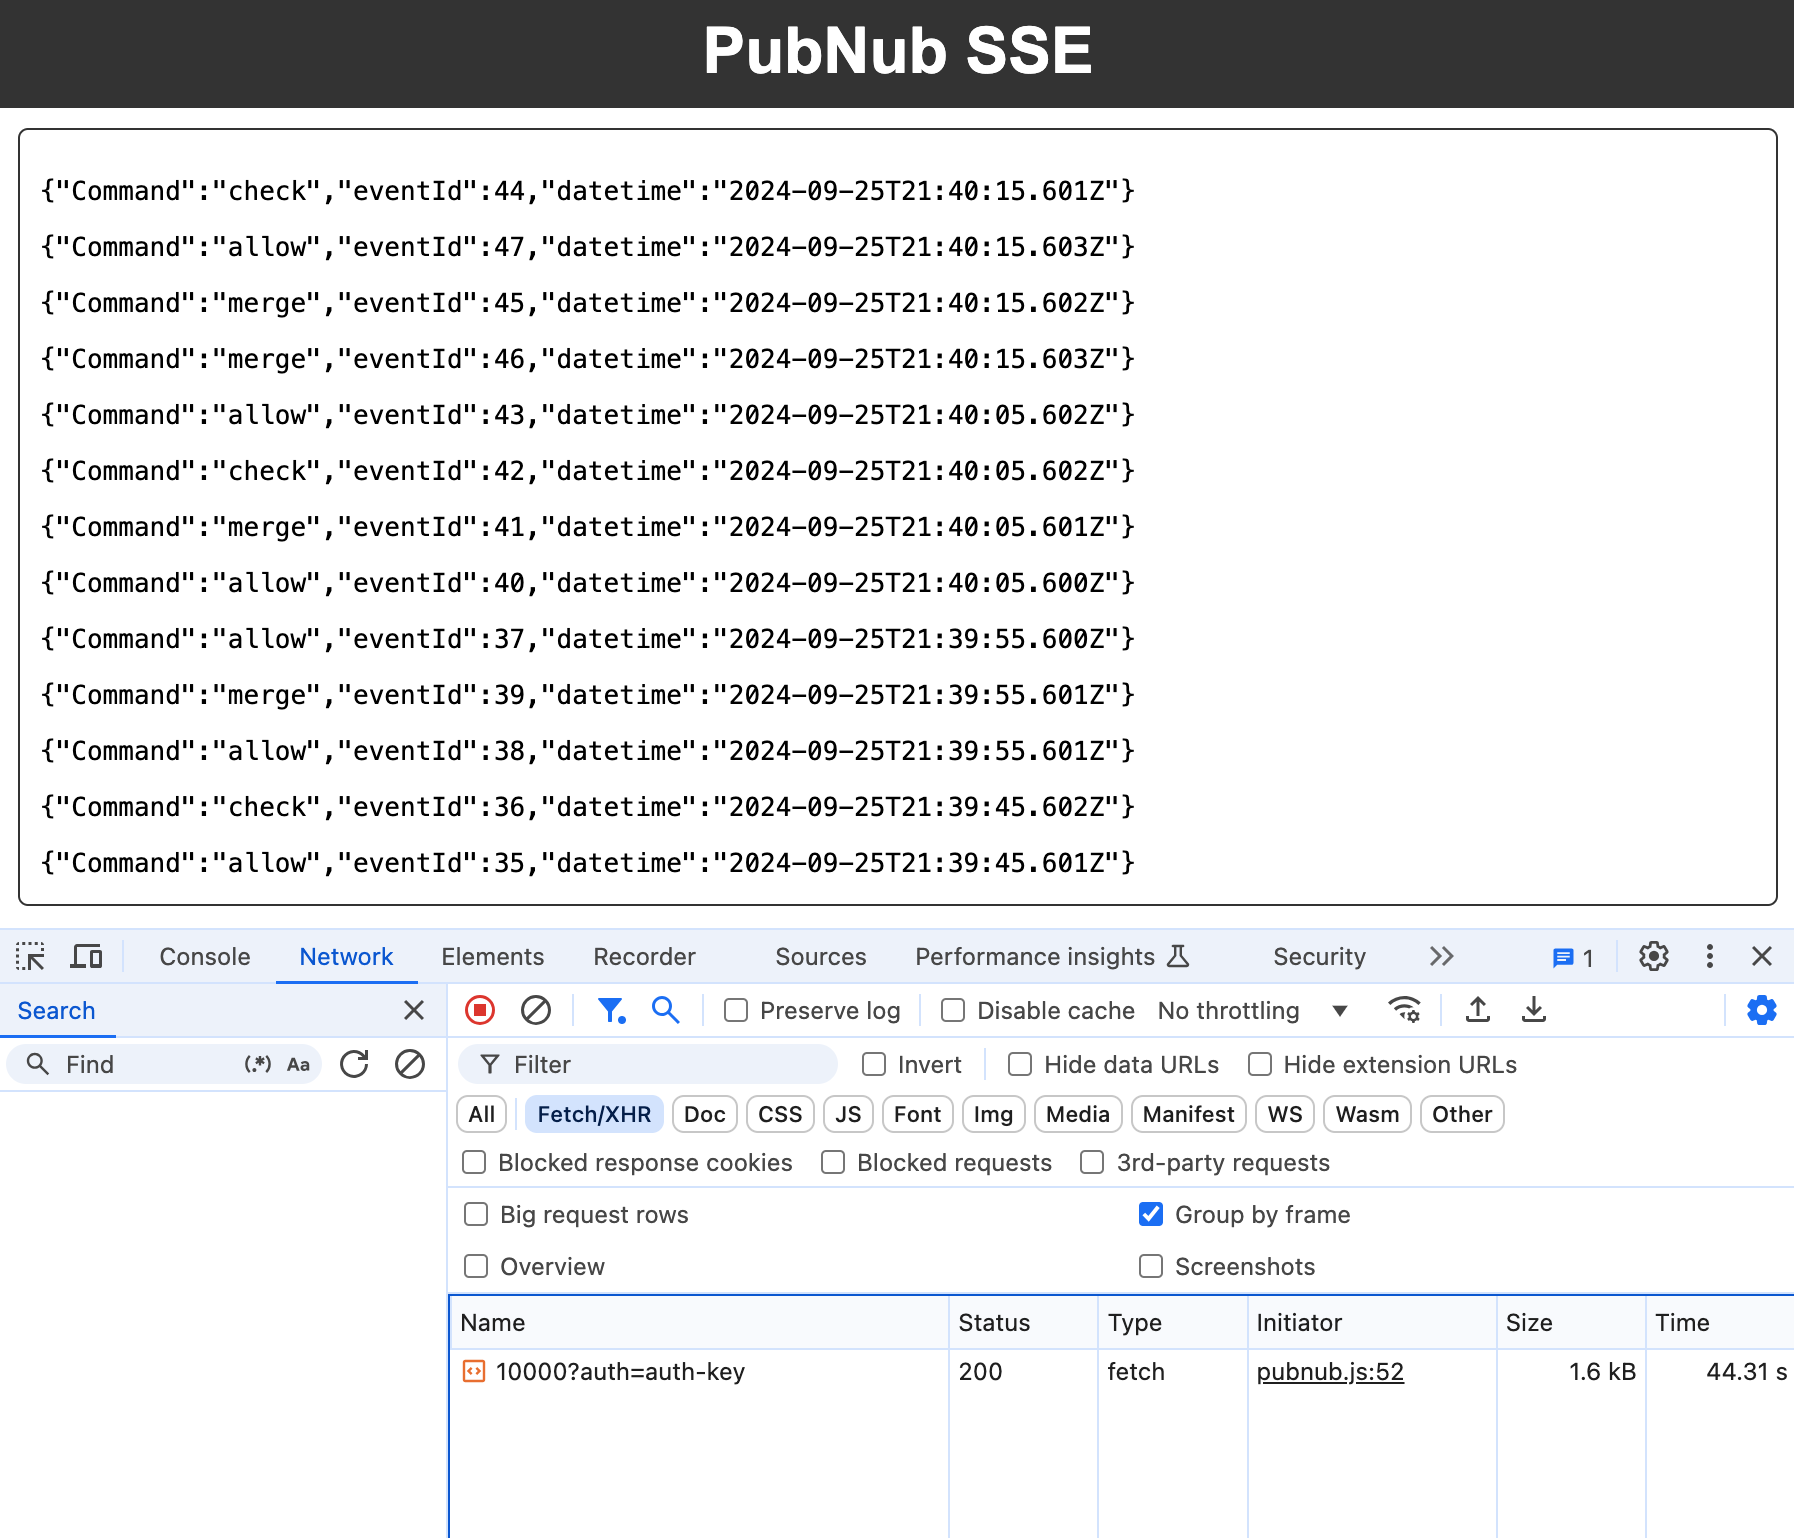
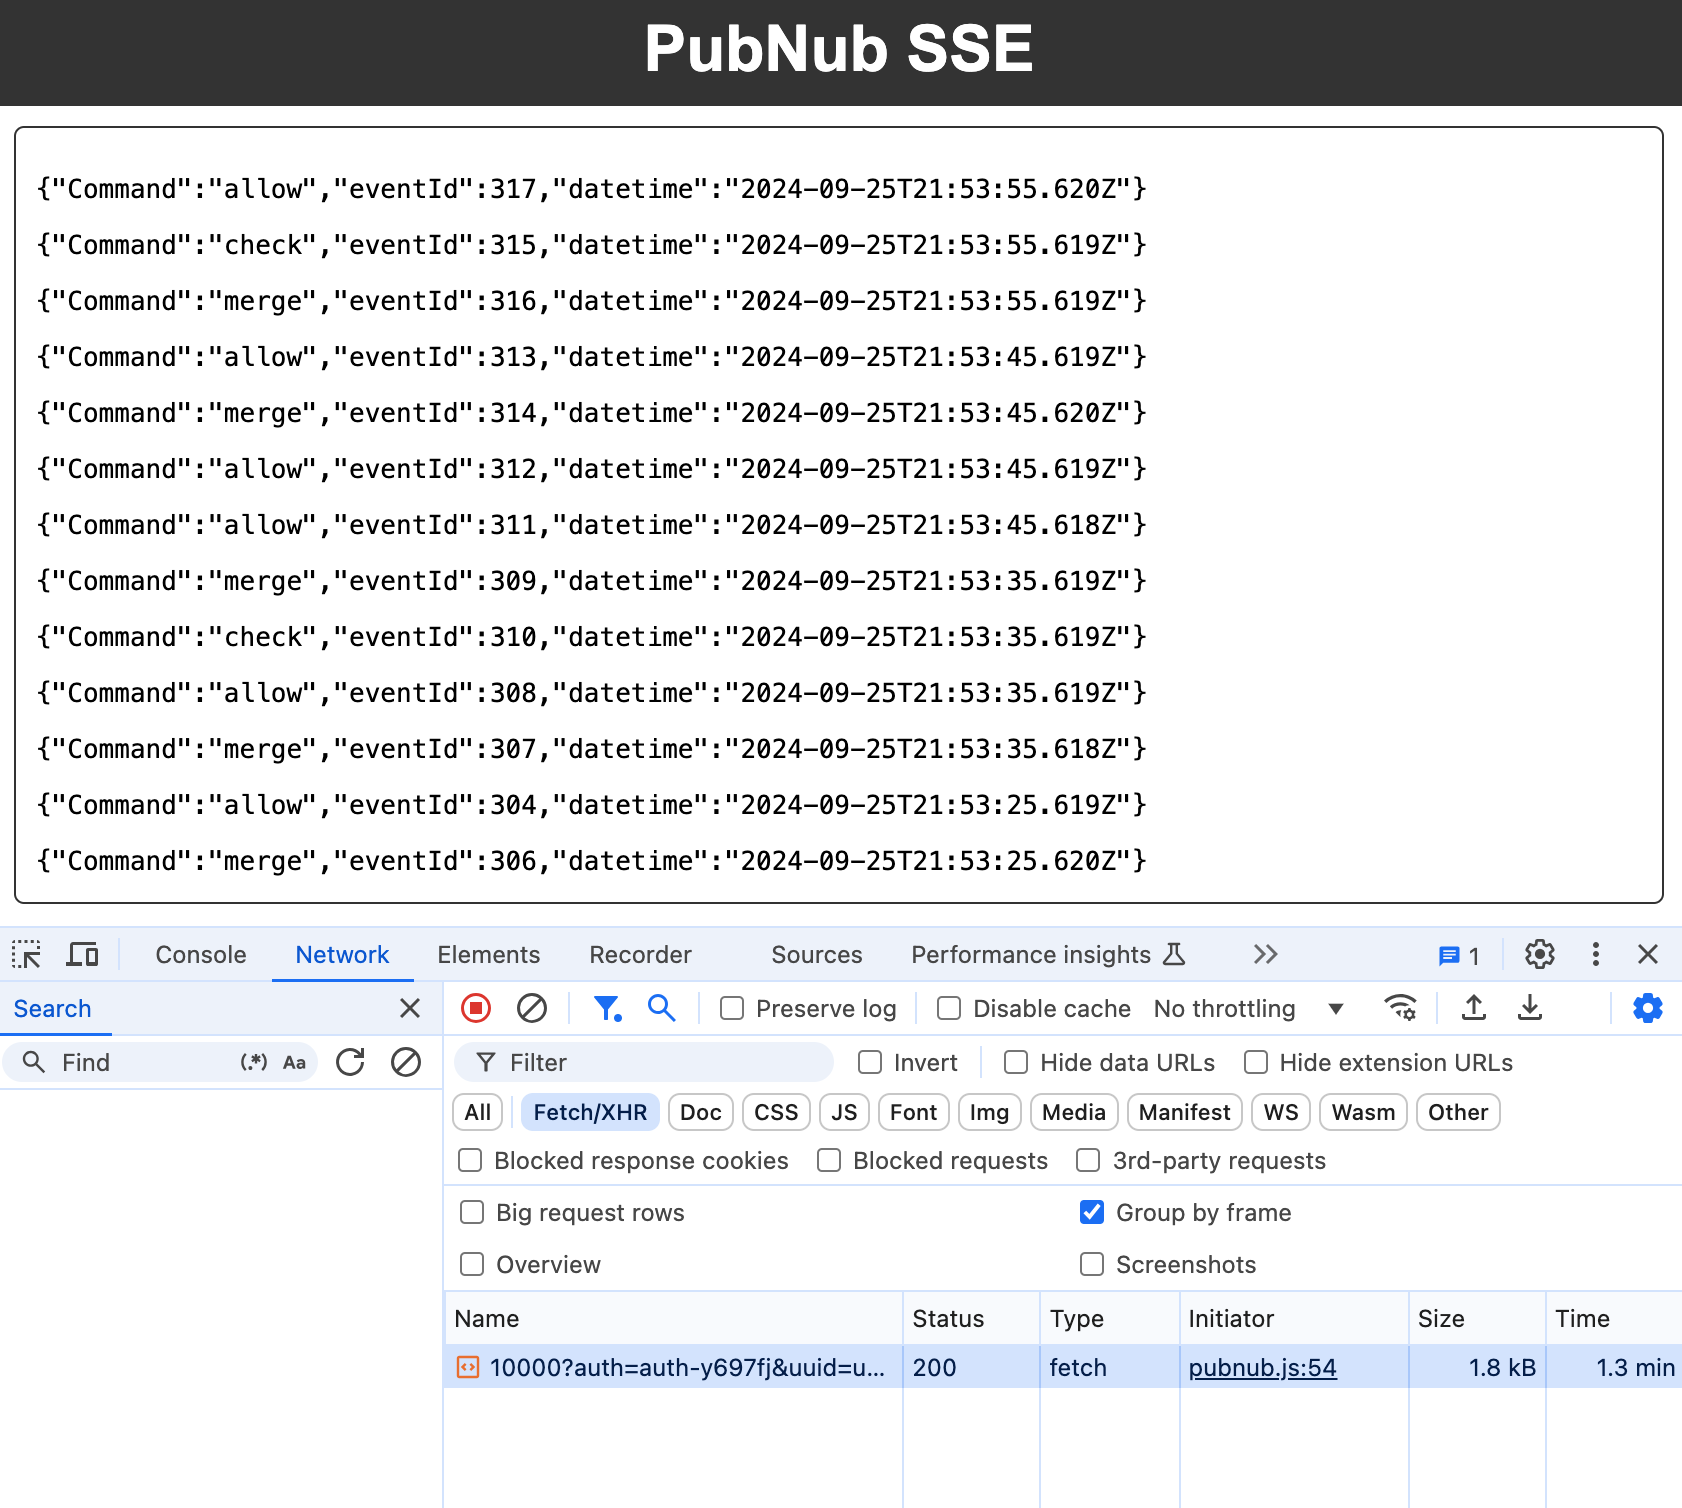
PubNub SSE instructions.

diff --git a/pubnub.js b/pubnub.js
@@ -17,19 +17,21 @@ const PubNub = (setup) => {
 const defaultSubkey  = 'demo';
 const defaultPubkey  = 'demo';
 const defaultChannel = 'pubnub';
+const defaultUserId  = 'user-default';
+const defaultAuthKey = 'user-default';
 const defaultOrigin  = 'v6.pubnub3.com'; // HTTP/3 and IPv6
-const defaultUUID    = `uuid-${+new Date()}`;
 
 const subscribe = PubNub.subscribe = (setup={}) => {
-    let subkey     = setup.subkey     || PubNub.subscribeKey || defaultSubkey;
-    let channel    = setup.channel    || PubNub.channel      || defaultChannel;
-    let origin     = setup.origin     || PubNub.origin       || defaultOrigin;
-    let messages   = setup.messages   || PubNub.messages     || (a => a);
-    let filter     = setup.filter     || PubNub.filter       || '';
-    let authkey    = setup.authkey    || PubNub.authKey      || '';
-    let timetoken  = setup.timetoken  || '10000';
+    let subkey     = setup.subscribeKey || PubNub.subscribeKey || defaultSubkey;
+    let channel    = setup.channel      || PubNub.channel      || defaultChannel;
+    let origin     = setup.origin       || PubNub.origin       || defaultOrigin;
+    let uuid       = setup.userId       || PubNub.userId       || defaultUserId;
+    let authkey    = setup.authKey      || PubNub.authKey      || defaultAuthKey;
+    let messages   = setup.messages     || PubNub.messages     || (a => a);
+    let filter     = setup.filter       || PubNub.filter       || '';
+    let timetoken  = setup.timetoken    || '10000';
     let filterExp  = `${filter?'&filter-expr=':''}${encodeURIComponent(filter)}`;
-    let params     = `auth=${authkey}${filterExp}`;
+    let params     = `auth=${authkey}${filterExp}&uuid=${uuid}`;
     let decoder    = new TextDecoder();
     let boundry    = /[\n]/g;
     let resolver   = null;
@@ -114,16 +116,17 @@ const subscribe = PubNub.subscribe = (setup={}) => {
 };
 
 const publish = PubNub.publish = async (setup={}) => {
-    let pubkey    = setup.pubkey     || PubNub.publishKey   || defaultPubkey;
-    let subkey    = setup.subkey     || PubNub.subscribeKey || defaultSubkey;
-    let channel   = setup.channel    || PubNub.channel      || defaultChannel;
-    let uuid      = setup.userId     || setup.uuid          || PubNub.uuid         || defaultUUID;
-    let authkey   = setup.authKey    || setup.authkey       || PubNub.authKey      || '';
-    let origin    = setup.origin     || PubNub.origin       || defaultOrigin;
-    let message   = setup.message    || 'missing-message';
-    let metadata  = setup.metadata   || PubNub.metadata     || {};
+    let pubkey    = setup.publishKey   || PubNub.publishKey   || defaultPubkey;
+    let subkey    = setup.subscribeKey || PubNub.subscribeKey || defaultSubkey;
+    let channel   = setup.channel      || PubNub.channel      || defaultChannel;
+    let userId    = setup.userId       || PubNub.userId       || defaultUserId;
+    let authkey   = setup.authKey      || PubNub.authKey      || defaultAuthKey;
+    let origin    = setup.origin       || PubNub.origin       || defaultOrigin;
+    let uuid      = setup.userId       || PubNub.userId       || defaultUserId;
+    let message   = setup.message      || 'missing-message';
+    let metadata  = setup.metadata     || PubNub.metadata     || {};
     let uri       = `https://${origin}/publish/${pubkey}/${subkey}/0/${channel}/0`;
-    let params    = `auth=${authkey}&meta=${encodeURIComponent(JSON.stringify(metadata))}`;
+    let params    = `auth=${authkey}&meta=${encodeURIComponent(JSON.stringify(metadata))}&uuid=${uuid}`;
     let payload   = { method: 'POST', body: JSON.stringify(message) };
 
     try      { return await fetch(`${uri}?${params}`, payload) }

diff --git a/index.html b/index.html
@@ -34,8 +34,8 @@
 (()=>{
 
     // PubNub Setup
-    const userId = Math.random().toString(36).substring(7);
-    const authKey = 'auth-key';
+    const userId = `user-${Math.random().toString(4).substring(7)}`;
+    const authKey = `auth-${Math.random().toString(36).substring(7)}`;
     const channel = 'Commands';
     const pubkey = 'pub-c-a88f5e0f-af28-4847-ad52-30495d0cbcb8';
     const subkey = 'sub-c-a8cbfccb-676b-4034-9681-dfed95af8d7e';

diff --git a/README.md b/README.md
@@ -13,7 +13,7 @@ Setup the SDK as follows in the example.
 <script>
 
 // PubNub Setup
-const userId = Math.random().toString(36).substring(7);
+const userId = 'user-id';
 const authKey = 'auth-key';
 const channel = 'Commands';
 const pubkey = 'pub-c-a88f5e0f-af28-4847-ad52-30495d0cbcb8';
